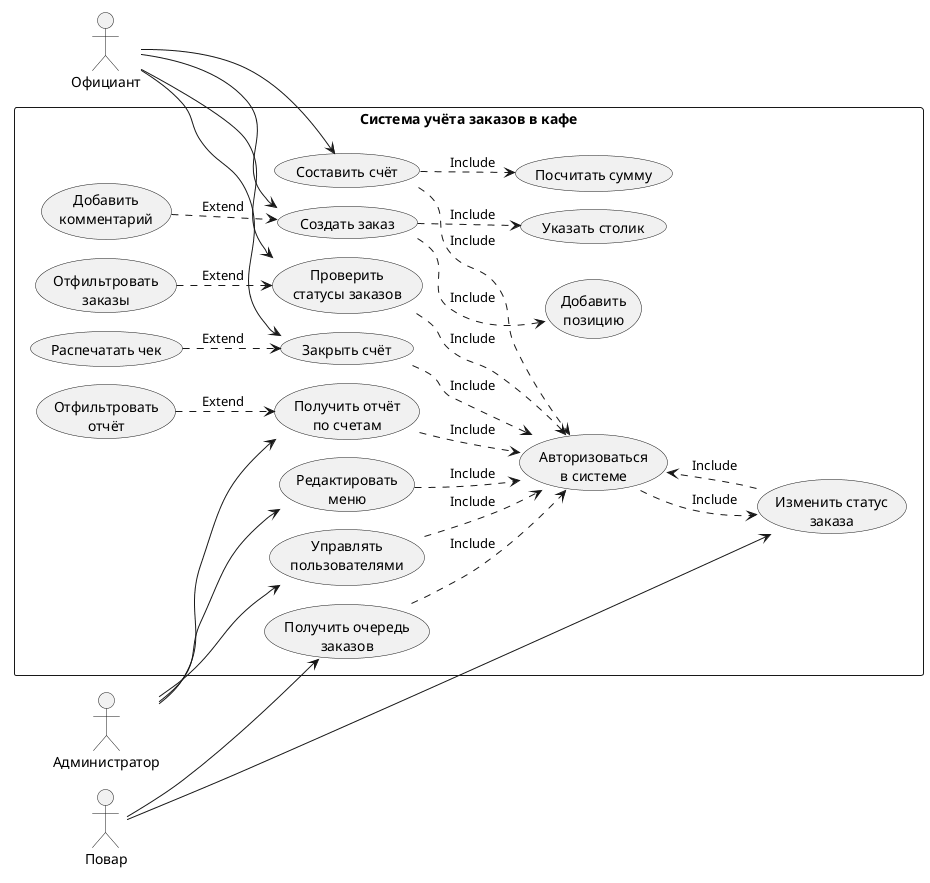
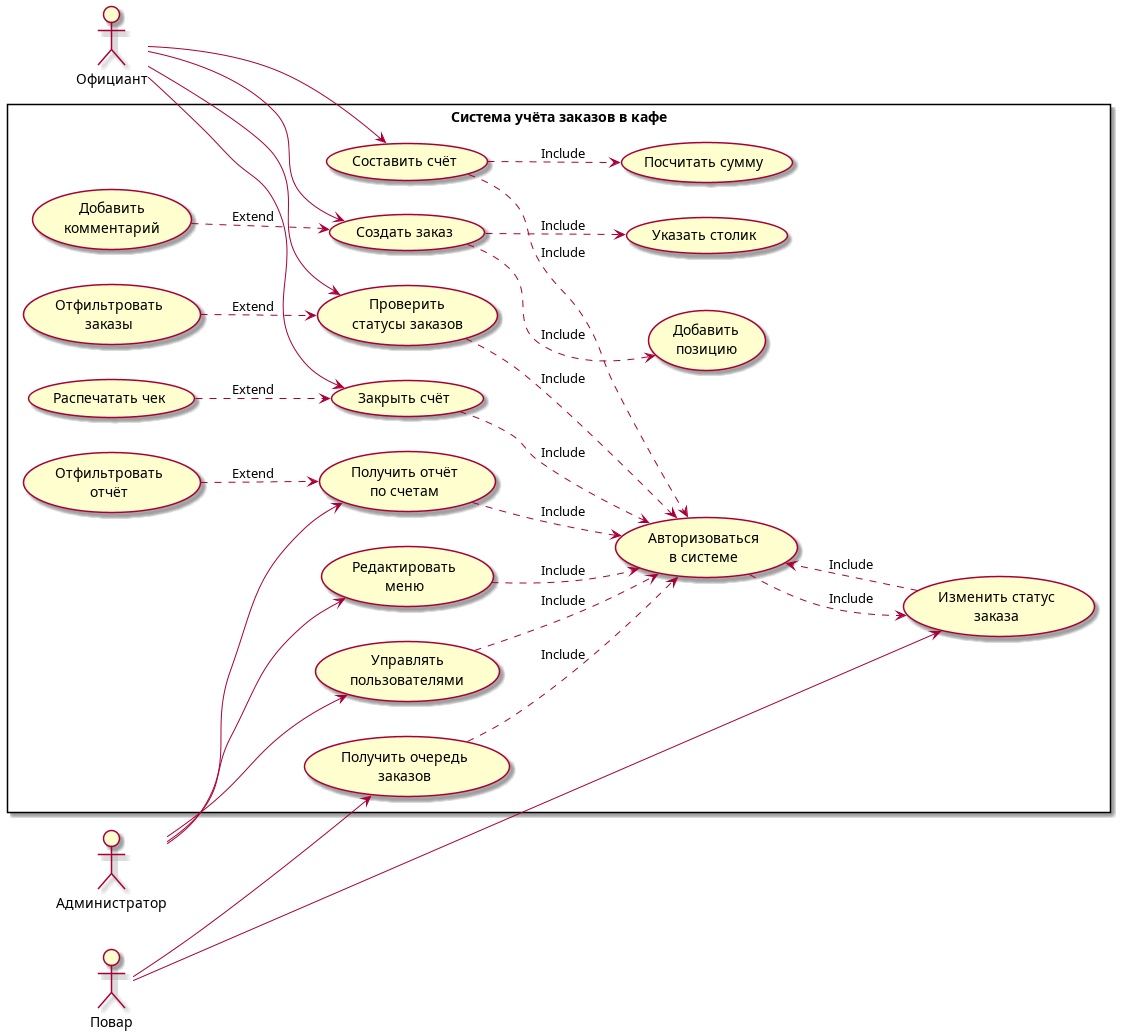
Change diagrams and readme

diff --git a/README.md b/README.md
@@ -137,26 +137,6 @@ okeeper/
 
 ---
 
-## Диаграммы
-
-### Use Case — диаграмма вариантов использования
-
-![Use Case](docs/diagrams/use_case.png)
-
-### Activity — диаграмма деятельности официанта
-
-![Activity Waiter](docs/diagrams/activity_waiter.png)
-
-### Activity — диаграмма деятельности повара
-
-![Activity Cook](docs/diagrams/activity_cook.png)
-
-### Activity — диаграмма деятельности администратора
-
-![Activity Admin](docs/diagrams/activity_admin.png)
-
----
-
 ## Установка и запуск
 
 ### Требования
